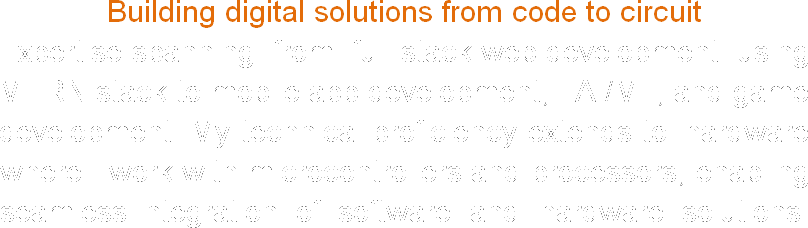
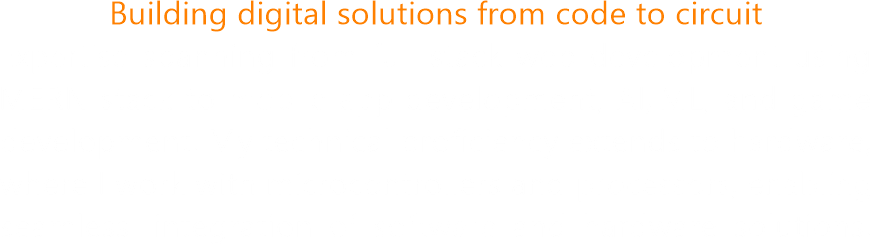
Updated

diff --git a/README.md b/README.md
@@ -62,7 +62,7 @@
     </td>
     <td align="center">
       <br><br><img src="https://readme-typing-svg.herokuapp.com?font=&weight=800&size=38&duration=1&pause=1000&color=F70000&center=true&width=500&lines=Tech+Stack" />
-      <img width="420" src="public/Tech-Stack-Light-1.png" />
+      <img width="420" src="public/Tech-Stack-Dark.png" />
       <p align="center"> 
         $\color{orange}{\text{Building digital solutions from code to circuit}}$<br>
         Expertise spanning from full-stack web development using<br>
